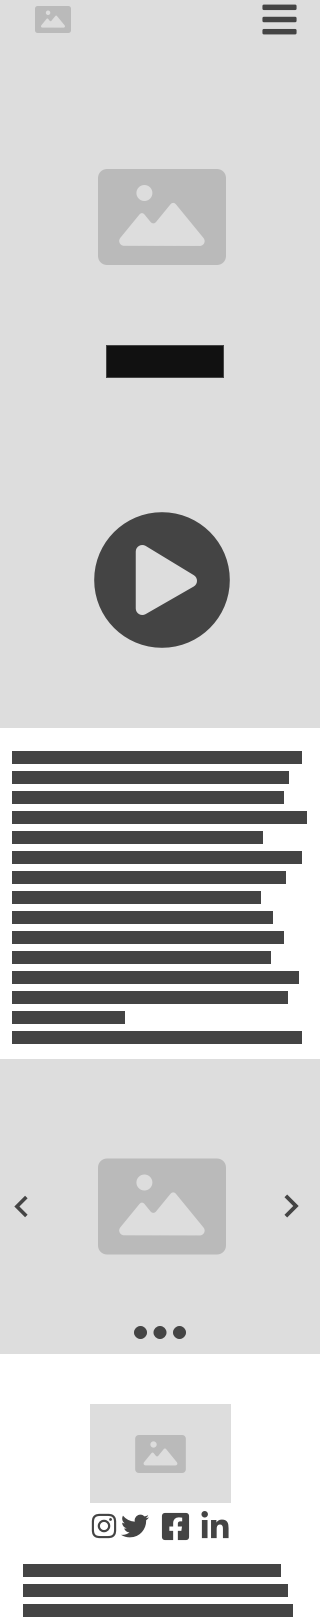
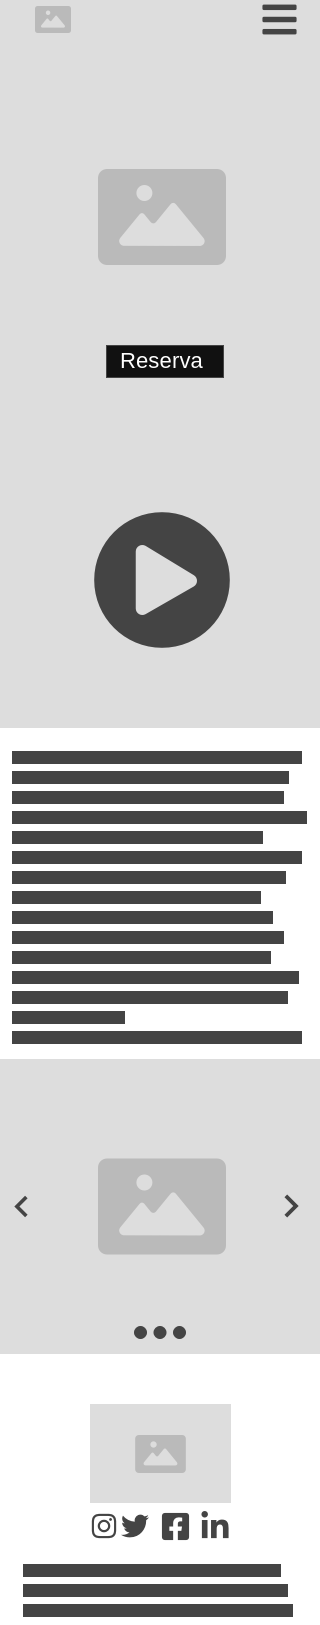
Modificadas imagenes con descripción de algunos textos

diff --git a/Proyecto/README.md b/Proyecto/README.md
@@ -1,30 +1,37 @@
 # Porque del proyecto.
+
 En la actualidad, donde todo el mundo utiliza internet y sus dispositivos móviles para prácticamente todo, es fundamental que los negocios tengan presencia en línea. Un buen desarrollo web otorga visibilidad a los negocios y también facilita la interacción con los clientes.
 
 Este proyecto irá destinado al desarrollo de una web de un restaurante, que permita a los clientes hacer reservas, mirar el menú y contactar con el mismo.
 
 # Descripción del proyecto.
+
 1- Creación de una web de un restaurante que permita a los clientes hacer reservas, mirar el menú y contactar con el mismo.
 
-2- Facilitar la comunicación entre el restaurante y sus clientes.
+2- Facilitar la comunicación entre el restaurante y sus clientes haciendo la comunicación más efectiva.
 
 # Wireframes.
+
 ## HomePage Desktop
+
 ![Homepage](./images/Homepage.png)
 
 --- -
 
 ## HomePage M
+
 ![MHomepage](./images/MHomepage.png)
 
 --- -
 
 ## About Page Desktop
+
 ![About](./images/About.png)
 
 --- - 
 
 ## About Page M
+
 ![MAbout](./images/MAbout.png)
 
 --- -
